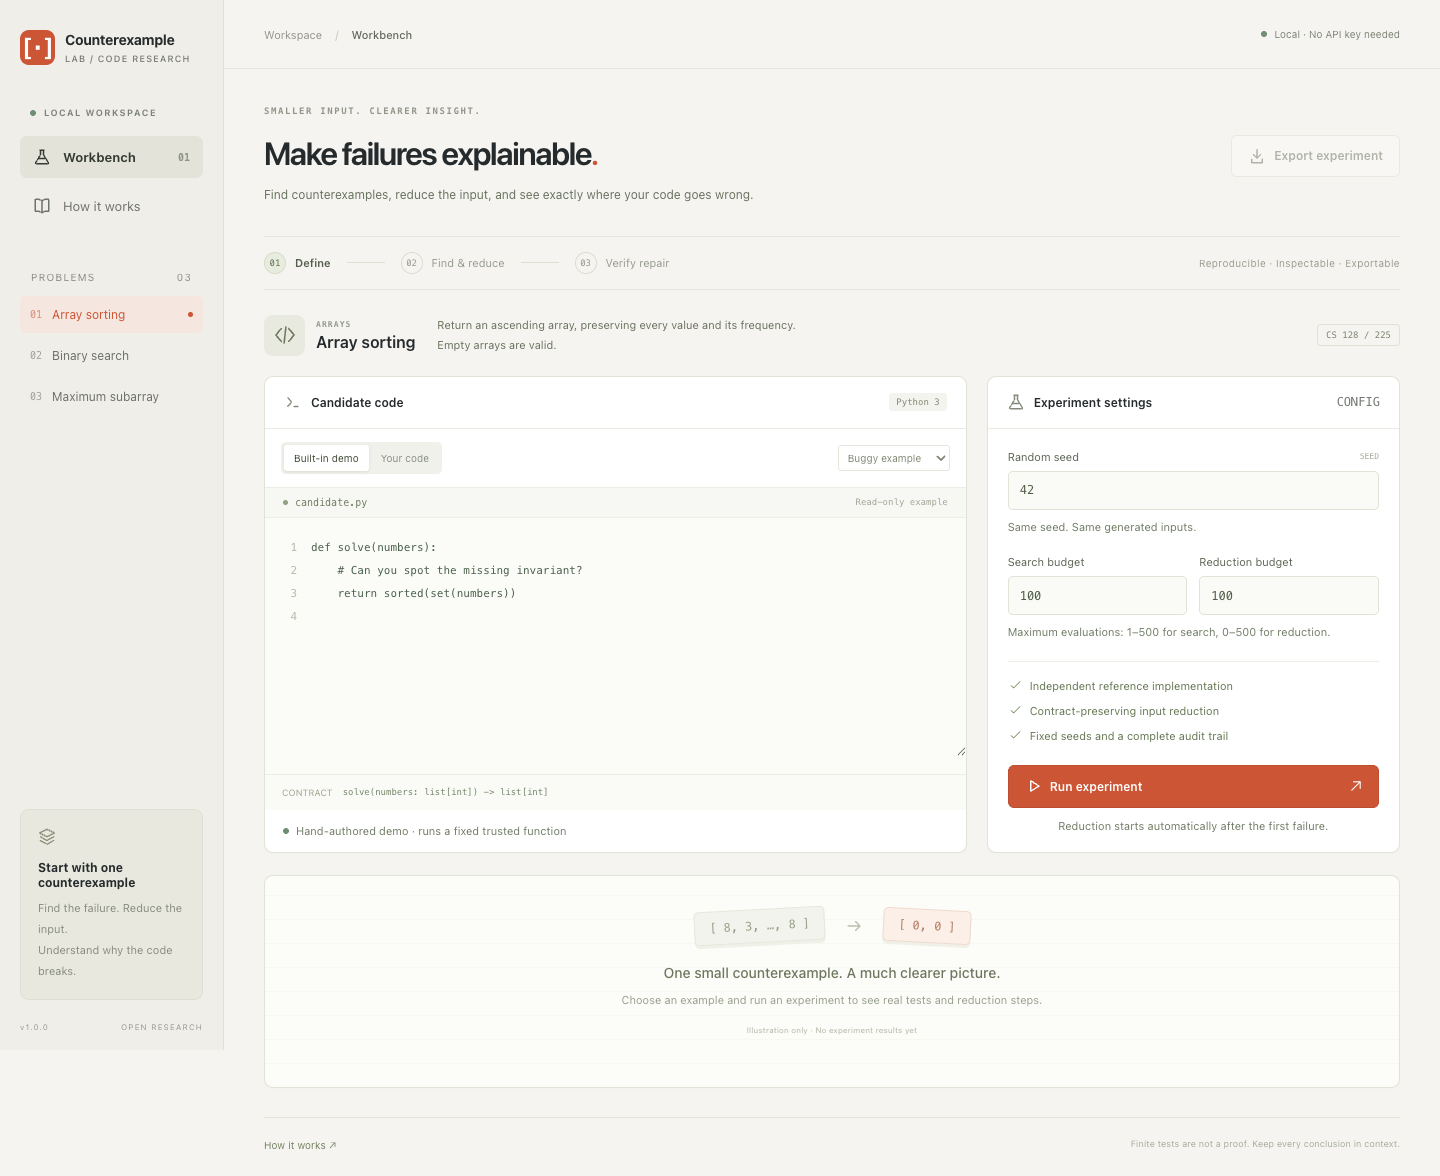
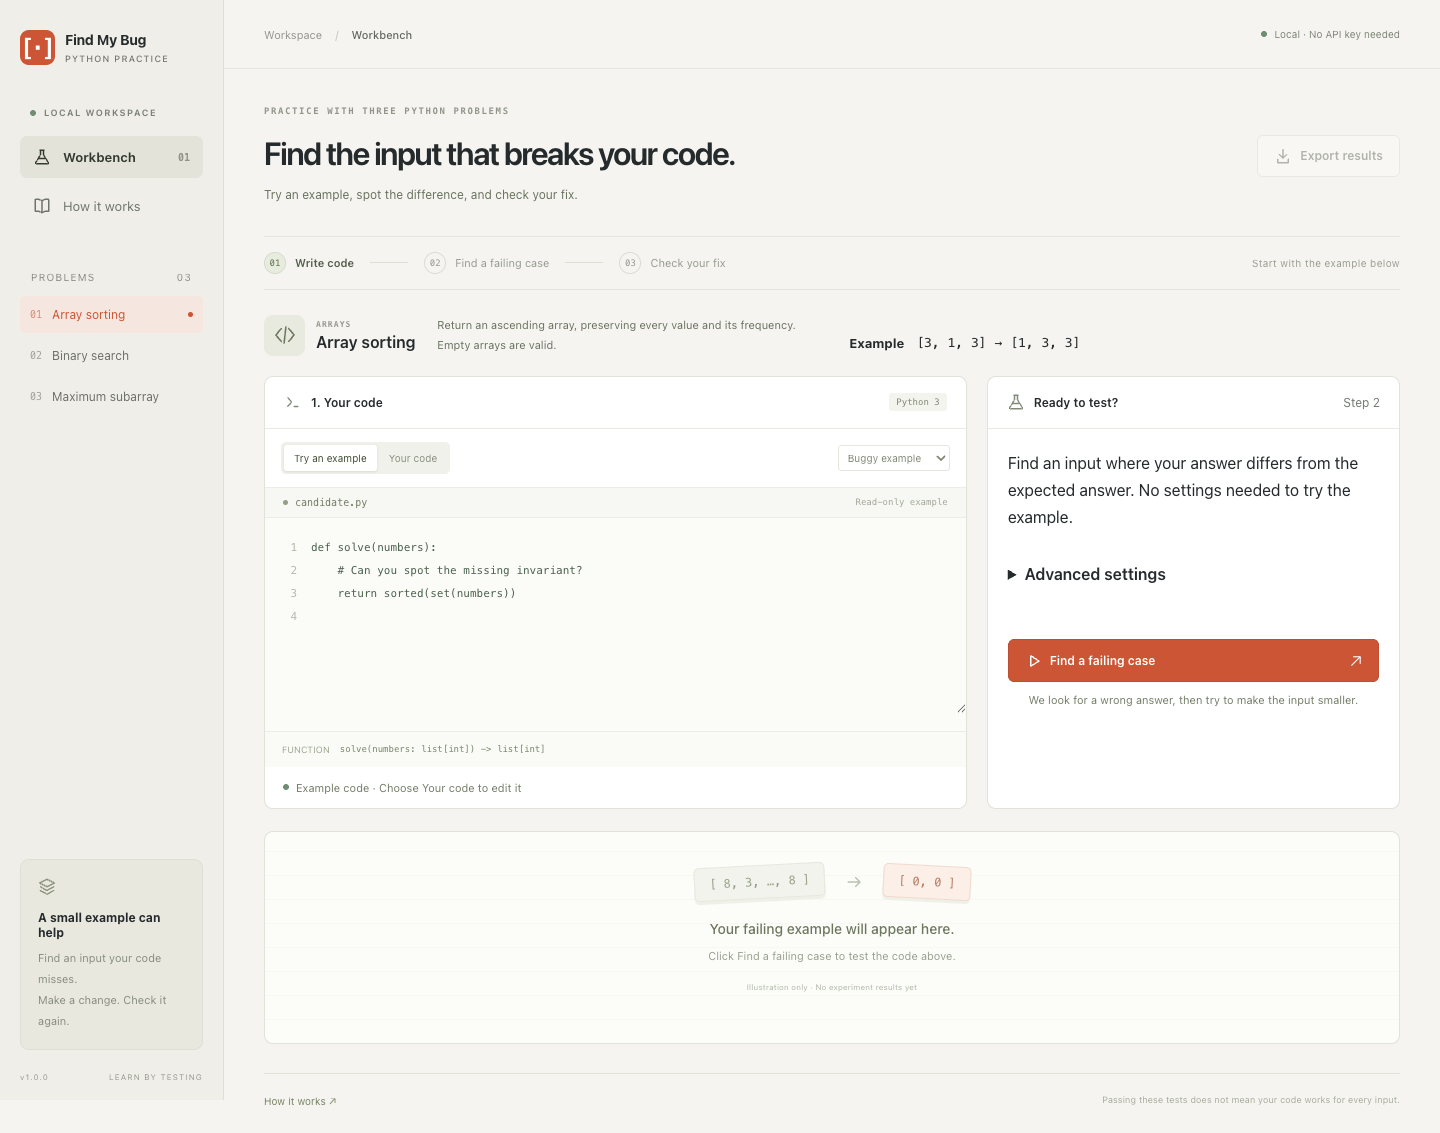
Refresh Find My Bug demo screenshots, walkthrough and package naming

diff --git a/frontend/e2e/demo-images.spec.ts b/frontend/e2e/demo-images.spec.ts
@@ -1,0 +1,54 @@
+import { test, expect } from "@playwright/test";
+import { mkdirSync } from "node:fs";
+
+// These are real UI captures, refreshed explicitly rather than on every CI run.
+test("capture the current README demo", async ({ page }) => {
+  test.skip(
+    process.env.LAB_REFRESH_DEMOS !== "1",
+    "Opt-in documentation capture",
+  );
+  mkdirSync("../docs/images", { recursive: true });
+  await page.setViewportSize({ width: 1440, height: 1100 });
+  await page.goto("/");
+  await expect(
+    page.getByRole("heading", {
+      name: "Find the input that breaks your code.",
+    }),
+  ).toBeVisible();
+  await page.screenshot({
+    path: "../docs/images/workbench.png",
+    fullPage: true,
+  });
+
+  await page.getByRole("button", { name: "Find a failing case" }).click();
+  await expect(
+    page.getByText("Found a failing case", { exact: true }),
+  ).toBeVisible();
+  await expect(page.getByLabel("Repair Python code")).toHaveValue(
+    /sorted\(set/,
+  );
+  await page.getByText("A question to think about", { exact: true }).click();
+  await page.getByRole("button", { name: "Show a working example" }).click();
+  await page
+    .getByRole("button", { name: "Check your fix", exact: true })
+    .click();
+  await expect(
+    page.getByText("Previous failing example: passed", { exact: true }),
+  ).toBeVisible();
+  await expect(
+    page.getByText("Unseen inputs: No errors found in these tests · 100/100"),
+  ).toBeVisible();
+  await page
+    .locator(".results")
+    .screenshot({ path: "../docs/images/check-fix.png" });
+
+  await page.setViewportSize({ width: 390, height: 844 });
+  expect(
+    await page.evaluate(
+      () => document.documentElement.scrollWidth <= innerWidth,
+    ),
+  ).toBeTruthy();
+  await page
+    .locator(".results")
+    .screenshot({ path: "../docs/images/mobile.png" });
+});

diff --git a/scripts/package.py b/scripts/package.py
@@ -13,7 +13,7 @@ def main():
     tracked = subprocess.check_output(['git', 'ls-files', '-z'], cwd=ROOT).decode().split('\0')
     files = {ROOT / p for p in tracked if p}
     files.update(p for p in dist.rglob('*') if p.is_file())
-    output = ROOT / 'artifacts/counterexample-lab.zip'
+    output = ROOT / 'artifacts/find-my-bug.zip'
     output.parent.mkdir(exist_ok=True)
     with zipfile.ZipFile(output, 'w', zipfile.ZIP_DEFLATED) as archive:
         for file in sorted(files):
@@ -23,7 +23,7 @@ def main():
             if any(part in {'.git', 'node_modules', '__pycache__', '.venv', 'artifacts', 'test-results'}
                    or part.startswith('.env') for part in relative.parts):
                 continue
-            archive.write(file, Path('counterexample-lab') / relative)
+            archive.write(file, Path('find-my-bug') / relative)
     print(f'{output} ({output.stat().st_size:,} bytes)')
 
 

diff --git a/backend/server.py b/backend/server.py
@@ -197,11 +197,11 @@ class Handler(BaseHTTPRequestHandler):
 
 
 def main():
-    parser = argparse.ArgumentParser(description='Counterexample Lab local server')
+    parser = argparse.ArgumentParser(description='Find My Bug local server')
     parser.add_argument('--port', type=int, default=8765)
     args = parser.parse_args()
     server = LabServer(('127.0.0.1', args.port))
-    print(f'Counterexample Lab → http://127.0.0.1:{args.port}', flush=True)
+    print(f'Find My Bug → http://127.0.0.1:{args.port}', flush=True)
     print('Built-in demos ready. Custom code requires Docker. Ctrl+C to stop.', flush=True)
     try:
         server.serve_forever()

diff --git a/backend/__init__.py b/backend/__init__.py
@@ -1,1 +1,1 @@
-"""Counterexample Lab: trusted orchestration, never exec user code here."""
+"""Find My Bug: trusted orchestration, never exec user code here."""

diff --git a/docs/VALIDATION.md b/docs/VALIDATION.md
@@ -31,7 +31,7 @@ docker build -t counterexample-lab-runner:1 runner
 LAB_DOCKER_TESTS=1 python3 -m unittest discover -s tests -v
 ```
 
-The checked-in GitHub Actions workflow also includes a Docker stage. See [GitHub Actions](https://github.com/yaa711/counterexample-lab/actions) for results associated with each commit; the local checks recorded above are separate from those runs.
+The checked-in GitHub Actions workflow also includes a Docker stage. See [GitHub Actions](https://github.com/yaa711/find-my-bug/actions) for results associated with each commit; the local checks recorded above are separate from those runs.
 
 No real model-repair experiment has been performed. All displayed demo candidates are explicitly hand-authored teaching examples. Correct-example validation proves the application workflow on these tests, not a research finding about model performance.
 
@@ -53,3 +53,7 @@ The browser test server now uses a dedicated port and refuses to reuse an existi
 - Frontend: TypeScript/Vite build passed; six browser tests passed, covering collapsed settings, retained repair drafts, working-example checks, exports, error states, and mobile overflow. Desktop and 390px mobile screenshots were inspected locally.
 - README image and its reference are unchanged. Existing pilot results are retained, not rerun or relabeled.
 - This validates the implementation, not its usefulness to beginners. No user study has been conducted yet.
+
+## Refreshed demonstration — 2026-09-06
+
+The earlier notes about retaining the original screenshot describe previous revisions. The README now uses new captures of Find My Bug's current interface: the starting page, a real duplicate-removal failure followed by the built-in working-example check, and the same results at mobile width. All three images were visually inspected. The opt-in capture passed against the live local backend (1 test, 2.5 seconds), including the previous failure and 100 unseen-input checks. The frontend build passed. No benchmark measurements were changed.

diff --git a/docs/DEMO.md b/docs/DEMO.md
@@ -1,0 +1,32 @@
+# Find My Bug demo
+
+The screenshots in the README come from the current local app. No outputs are mocked. The demo uses built-in functions so it can run without Docker.
+
+## Walk through it
+
+1. Start the app using the [README](../README.md#run-locally). Leave **Array sorting**, **Try an example**, and **Buggy example** selected.
+2. Click **Find a failing case**. The example removes repeated numbers, so `[0, 0]` produces `[0]` instead of `[0, 0]`.
+3. Open **A question to think about**. Compare the two outputs before looking at the working example.
+4. Select **Show a working example** in **Check your fix**, then click **Check your fix**. The built-in `sorted(numbers)` function passes the displayed failure and the separate set of 100 unseen inputs.
+5. To try your own change, select **Edit your fix**. Your draft starts from the failed source and requires Docker to run. Switching to the working example does not replace that draft.
+
+The old failure and unseen-input counts are separate. Passing either set is not proof of correctness.
+
+## Refresh the screenshots
+
+Install the frontend dependencies and Playwright Chromium as described in the README, then run from the repository root:
+
+```sh
+npm --prefix frontend run build
+LAB_REFRESH_DEMOS=1 LAB_TEST_PORT=8876 npm --prefix frontend run test:e2e -- demo-images.spec.ts
+```
+
+If using an installed Google Chrome instead of Playwright Chromium, add `LAB_BROWSER_CHANNEL=chrome`. Choose a free port if 8876 is already in use. The capture starts its own local server and stops it afterward.
+
+The command checks actual results before saving:
+
+- `images/workbench.png`: the starting page at desktop width.
+- `images/check-fix.png`: the failure and successful working-example check.
+- `images/mobile.png`: the same results at a 390-pixel viewport.
+
+Run IDs vary between captures. Review all three images after regeneration. This documentation capture is opt-in; ordinary CI does not overwrite the screenshots.

diff --git a/README.md b/README.md
@@ -4,7 +4,7 @@ Find My Bug helps you find a small input that your Python code gets wrong. Compa
 
 It currently supports three practice problems: sorting, binary search, and maximum subarray. Built-in examples work without Docker; running your own code needs Docker.
 
-![Counterexample Lab workbench](docs/images/workbench.png)
+![Find My Bug: choose a Python problem and find a failing case](docs/images/workbench.png)
 
 ## An example
 
@@ -18,6 +18,19 @@ def solve(numbers):
 For `[0, 0]`, the expected result is `[0, 0]`. The function returns `[0]`.
 
 The sorting demo uses this bug to show how reduction works. Removing either element makes the test pass, so the remaining pair makes the problem easy to explain.
+
+Below, **Show a working example** checks `sorted(numbers)`: the old failing input passes, along with 100 unseen inputs. This is a built-in demonstration, not a claim that every input will pass.
+
+![Find My Bug: the duplicate-removal failure and a checked working example](docs/images/check-fix.png)
+
+<details>
+<summary>See the same demo on a narrow screen</summary>
+
+<img src="docs/images/mobile.png" alt="Find My Bug failing case and fix check at mobile width" width="354">
+
+</details>
+
+See the [demo walkthrough](docs/DEMO.md) to reproduce these screens.
 
 This duplicate-removal example also appears in the [Hypothesis README](https://github.com/HypothesisWorks/hypothesis#readme). Find My Bug implements its own task-specific test generation and reduction logic.
 
@@ -144,6 +157,8 @@ cd frontend
 npx playwright install chromium
 npm run test:e2e
 ```
+
+To build a ZIP with source and the compiled interface, run `python3 scripts/package.py` after building the frontend. The output is `artifacts/find-my-bug.zip`.
 
 ## Code layout
 

diff --git a/docs/EXPERIMENTS.md b/docs/EXPERIMENTS.md
@@ -26,7 +26,7 @@ When shrinking is unstable, incomplete or infrastructure-limited, record that fa
 
 ## Validation
 
-Paste the returned function in the repair panel and validate it using Docker. Each condition tied to the same discovery run uses the same independent test suite for comparability. Verification excludes discovery and reduction inputs. This version runs a fixed derived seed; repeated verification is not a new test set. Do not iteratively tune repairs against it.
+Open **Copy feedback for an AI assistant** to get the feedback prompts. Paste the returned function under **Edit your fix**, then click **Check your fix** using Docker. Each condition tied to the same discovery run uses the same independent test suite for comparability. The unseen test set excludes discovery and reduction inputs. The displayed failure is checked separately in `regression` and must not be included in unseen test counts. This version runs a fixed derived seed; repeated verification is not a new test set. Do not iteratively tune repairs against it.
 
 After running a condition, export its report immediately (the UI retains only the latest verification result). Give each export a distinct filename. Keep the original model response separately. A report becoming stale after a restart requires replaying discovery with exactly the same source and settings.
 

diff --git a/AGENTS.md b/AGENTS.md
@@ -53,4 +53,4 @@ Use the checked-in lockfile. No external skills are required to run this project
 
 - Default flow: write code, inspect a small failing input, edit the failed source, and check the fix. Keep research settings collapsed.
 - Regression checks of displayed failures are reported separately from unseen-input counts. Never label exposed inputs as held out.
-- Preserve the original README screenshot and its reference when updating branding.
+- README screenshots must show the current interface. Refresh them with the documented demo capture command after UI changes.
